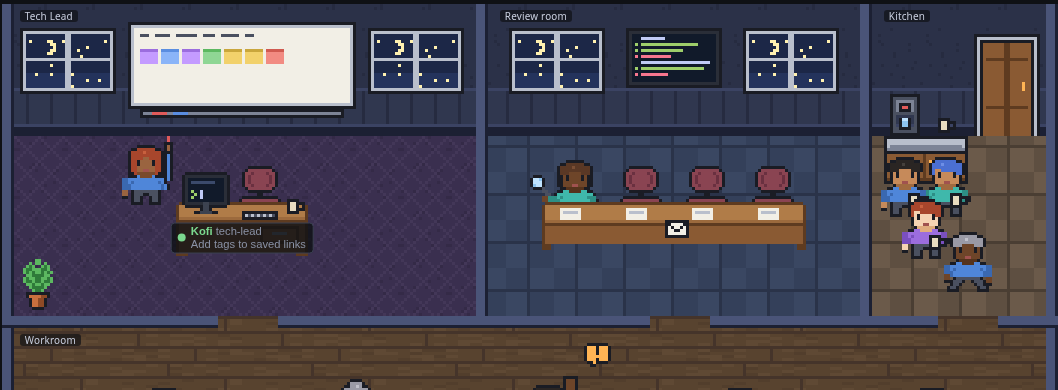
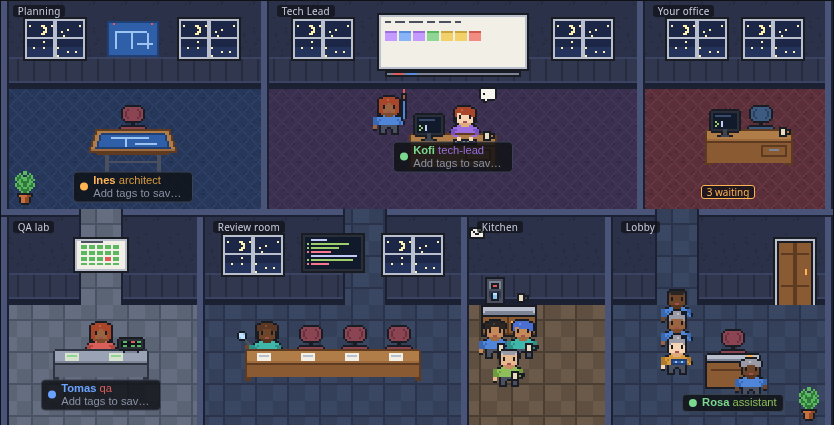
docs: office screenshots with rooms for every role and the queue

diff --git a/docs/screenshots/README.md b/docs/screenshots/README.md
@@ -1,6 +1,6 @@
 # Screenshots
 
-Refreshed at the end of Phase 13 (2026-11-09) so every picture shows the current UI.
+Refreshed at the end of Phase 13 (2026-11-09) so every picture shows the current UI. The GIF and the stills of the real run were recorded before the rooms for every role were added (see `docs/plans/phase-13.md`).
 
 | File | What it shows |
 |---|---|
@@ -8,11 +8,13 @@ Refreshed at the end of Phase 13 (2026-11-09) so every picture shows the current
 | `board-team-run.png` | The board at the end of that run: the goal and both sub-tasks in review, with tokens and cost per task and for the team. |
 | `usage-team-run.png` | The Usage tab for that run, by task. |
 | `office-live-team.png` | A still from that run (`office-worker-reporting.png` of `make demo`): one worker reports at the Tech Lead's whiteboard while the other keeps typing at its desk, and its own chair stands empty (ADR 0045). |
-| `office.png` | The Office from the mocked daemon of the UI tests (Phase 13 showcase test): a worker reporting at the whiteboard, a reviewer at the review room's table, three idle agents with coffee in the kitchen, a new agent walking in, a message flying to the Tech Lead, and the workroom with agents typing, waiting for the user (raised hands) and starting. |
-| `office-rooms.png` | Close-up of the rooms in that picture: the Tech Lead's room, the review room and the kitchen. |
-| `office-desks.png` | Close-up of the workroom in that picture: poses, monitors, bubbles, nameplates and empty chairs of agents who are away. |
+| `office.png` | The Office from the mocked daemon of the UI tests (showcase test): a worker reports at the Tech Lead's whiteboard; the architect, with its plan, and two agents waiting on you queue in the lobby under your office's door, whose sign says "3 waiting" like the Approvals badge; QA at the lab bench, a reviewer at the review table, the assistant at reception, idle agents with coffee in the kitchen, a message flying to the Tech Lead; in the workroom, workers and role-pack roles (docs, security) in shirts of their own colour. |
+| `office-rooms.png` | Close-up of the rooms in that picture: Planning, Tech Lead, Your office; QA lab, Review room, Kitchen, Lobby. |
+| `office-desks.png` | Close-up of the workroom in that picture: poses, monitors, nameplates with role colours, and empty chairs of agents who are away. |
 | `office-messages.png` | Messages between agents flying as envelopes (mocked daemon). |
-| `office-phone.png` | The Office on a Pixel 7 (mocked daemon): the stacked floor plan, rooms above the workroom. |
+| `office-phone.png` | The Office on a Pixel 7 (mocked daemon): three stacked bands of rooms above the workroom, the queue in the lobby. |
+| `office-queue.png` | A reviewer hits a permission prompt and joins the queue at your door: three waiting, three in the queue, "3 waiting" on the sign (mocked daemon). |
+| `approvals-question-plan.png` | The Approvals drawer with an architect's question and its plan waiting for approval, each leading to where it is answered (mocked daemon, ADR 0044). |
 | `usage.png` | The Usage tab by task with a goal budget and tokens without a price (mocked daemon). |
 
 The mocked ones (Playwright's headless Chromium; `make ui-test` writes fresh ones to
